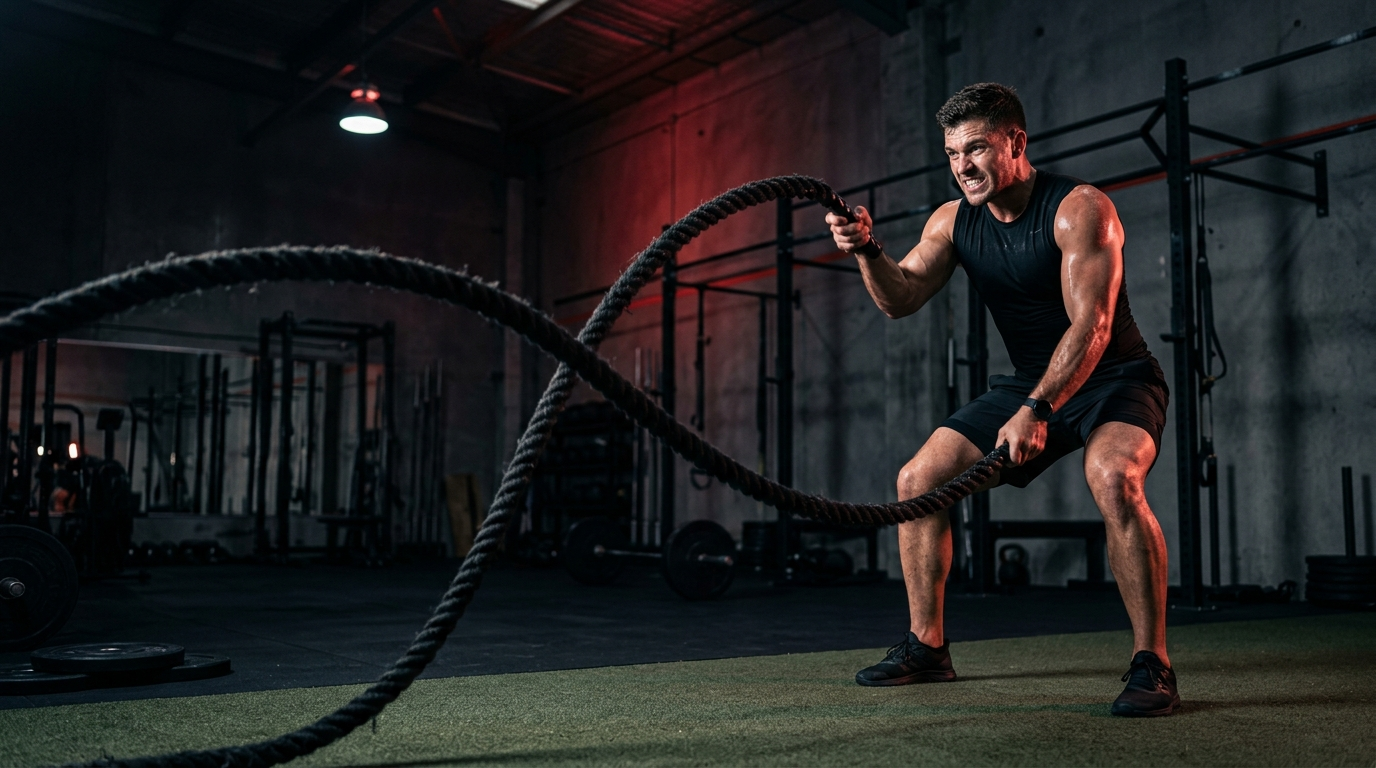
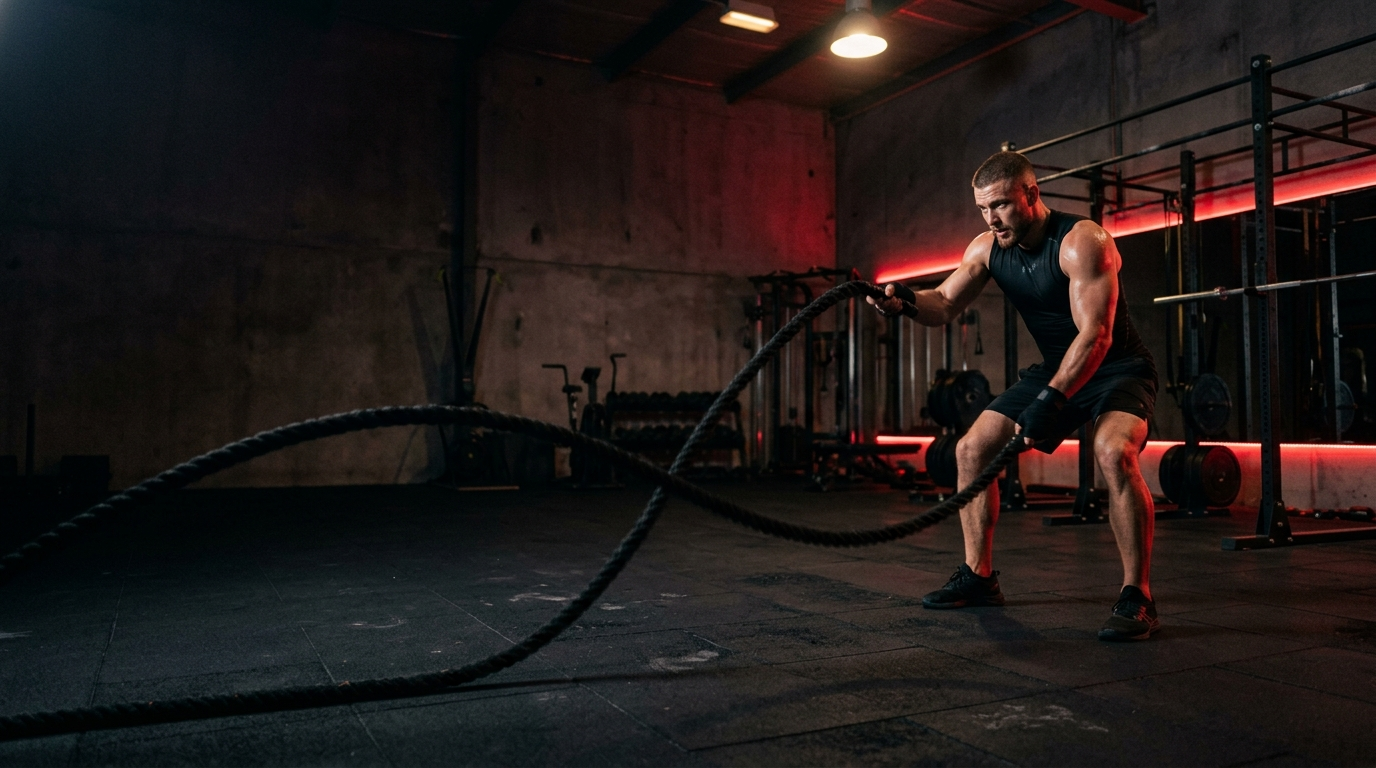
chore: update package-lock.json dependencies

diff --git a/client/src/components/home/TrainerCalloutBanner.tsx b/client/src/components/home/TrainerCalloutBanner.tsx
@@ -29,11 +29,11 @@ export default function TrainerCalloutBanner({
   return (
     <section
       aria-label="Fitness Trainer Callout"
-      className={`relative w-full overflow-hidden bg-black text-white ${className}`}
+      className={`relative w-full overflow-hidden bg-black text-white min-h-[320px] sm:min-h-[380px] md:min-h-[420px] lg:min-h-[460px] flex items-center ${className}`}
     >
-      {/* Background Image Layer */}
+      {/* Background Image Layer with Top-Anchored Positioning */}
       <div
-        className="absolute inset-0 bg-cover bg-right sm:bg-center md:bg-right lg:bg-[center_right_10%] bg-no-repeat transition-transform duration-700 hover:scale-105"
+        className="absolute inset-0 bg-cover bg-no-repeat bg-[position:80%_top] sm:bg-[position:85%_top] md:bg-[position:88%_top] lg:bg-[position:90%_top] transition-transform duration-700"
         style={{
           backgroundImage: `url('${backgroundImage}')`,
         }}
@@ -43,12 +43,12 @@ export default function TrainerCalloutBanner({
       {/* Dark left vignette fading out towards the right athlete photo */}
       <div className="absolute inset-0 bg-gradient-to-r from-black via-black/85 md:via-black/70 to-transparent z-1" />
       {/* Subtle top and bottom dark edge blending */}
-      <div className="absolute inset-0 bg-gradient-to-b from-black/40 via-transparent to-black/60 z-1" />
+      <div className="absolute inset-0 bg-gradient-to-b from-black/50 via-transparent to-black/60 z-1" />
       {/* Soft warm/red ambient atmospheric glow */}
       <div className="absolute -left-20 top-1/2 -translate-y-1/2 w-96 h-96 bg-red-600/10 rounded-full blur-3xl pointer-events-none z-1" />
 
       {/* Main Content Container */}
-      <div className="relative z-10 mx-auto max-w-7xl px-6 py-14 sm:px-10 sm:py-20 md:py-24 lg:px-16 lg:py-28">
+      <div className="relative z-10 w-full mx-auto max-w-7xl px-6 py-12 sm:px-10 sm:py-16 md:py-20 lg:px-16 lg:py-24">
         <motion.div
           initial={{ opacity: 0, x: -30 }}
           whileInView={{ opacity: 1, x: 0 }}
